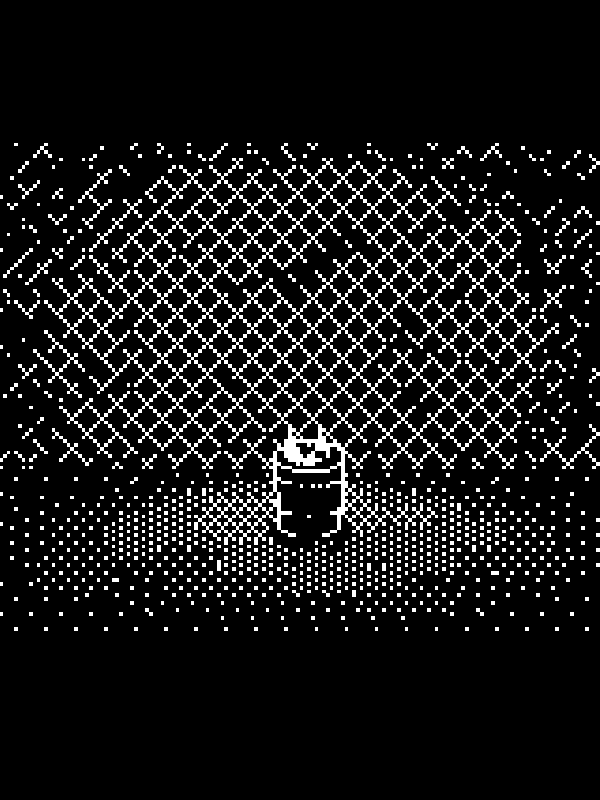
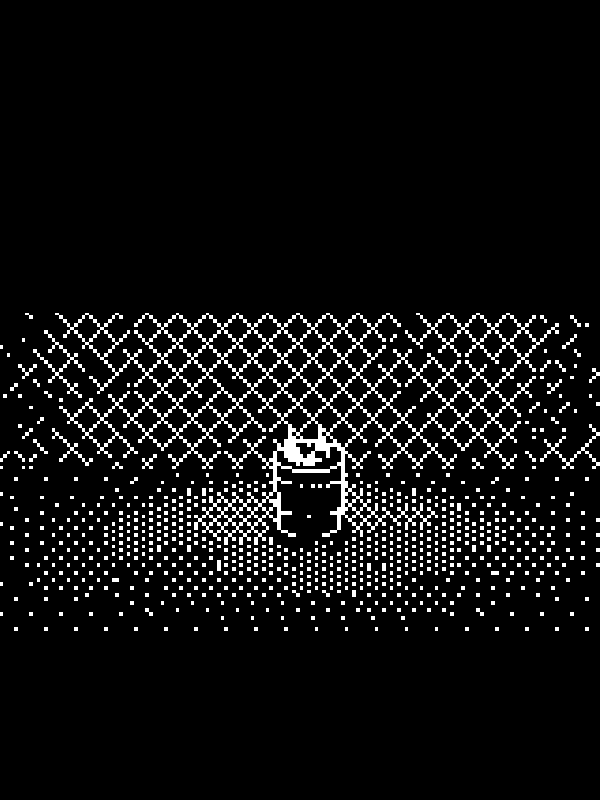
added basic gameplay screen

diff --git a/js/game-play.js b/js/game-play.js
@@ -1,0 +1,70 @@
+BasicGame.GamePlay = function (game) {
+
+	this.vowelButton = null;
+	this.conButton = null;
+	this.doneButton = null;
+	this.countDownText = null;
+	this.randomLetters = "";
+	this.timer = null;
+	this.timerValue = 30;
+	this.timerText = null;
+	this.game = game;
+	this.state = "enterLetters";
+};
+
+BasicGame.GamePlay.prototype = {
+
+	create: function () {
+	    this.bg = this.add.sprite(0, 0, 'background');
+		this.vowelButton = this.add.button(30, 30, 'vowel', this.addVowel, this, 1, 0, 1);
+		this.vowelButton.input.useHandCursor = true;
+		this.vowelButton = this.add.button(130, 30, 'consonant', this.addCon, this, 1, 0, 1);
+		this.vowelButton.input.useHandCursor = true;
+		this.vowelButton = this.add.button(230, 30, 'done', this.startCountdown, this, 1, 0, 1);
+		this.vowelButton.input.useHandCursor = true;
+		countDownText = this.add.text(30, 140, "", { font: "50px Arial", fill: "#ffffff", align: "center" });
+		countDownText.setText(this.randomLetters);
+		this.timer = this.game.time.create(false);
+	    this.timer.loop(1000, this.updateCounter, this);
+		this.state = "enterLetters";
+	},
+
+	update: function () {
+		countDownText.setText(this.randomLetters);
+	},
+
+	addVowel: function() {
+		if (this.state === "enterLetters") {
+			this.randomLetters = this.randomLetters + this.getRandomCharacter("aueio") + " ";
+		}
+	},
+
+	addCon: function() {
+		if (this.state === "enterLetters") {
+			this.randomLetters = this.randomLetters + this.getRandomCharacter("bcdfghjklmnpqrstvwxyz") + " ";
+		}
+	},
+
+	startCountdown: function() {
+		this.state = "countingDown";
+		this.timerText = this.add.text(30, 340, "" + this.timerValue, { font: "80px Arial", fill: "#ff0000", align: "center" });
+	    this.timer.start();
+	},
+
+	updateCounter: function() {
+		this.timerValue = this.timerValue - 1;
+		this.timerText.setText("" + this.timerValue);
+		if (this.timerValue === -1) {
+			this.timer.destroy();
+			this.timerText.setText("");
+		}
+	},
+
+	getRandomCharacter: function(charSet) {
+		charSet = charSet || 'abcdefghijklmnopqrstuvwxyz';
+	    var randomPoz = Math.floor(Math.random() * charSet.length);
+	    randomString = charSet.substring(randomPoz,randomPoz+1);
+	    return randomString;
+	},
+
+};

diff --git a/js/main-menu.js b/js/main-menu.js
@@ -18,10 +18,13 @@ BasicGame.MainMenu.prototype = {
 
 		// Add Main Menu Graphics
 	    		
-	    this.bg = this.add.sprite(0, 0, 'background');
+	    //this.bg = this.add.sprite(0, 0, 'background');
 
 	    // Add "Click here to Play" Button
-		this.playButton = this.add.button(300, 140, 'new-game', this.startGame, this, 1, 0, 1);
+		countDownText = this.add.text(0, 0, "test", { font: "65px Arial", fill: "#ffffff", align: "center" });
+		countDownText.setText("STREET \nCOUNTDOWN");
+
+		this.playButton = this.add.button(100, 300, 'new-game', this.startGame, this, 1, 0, 1);
 		this.playButton.input.useHandCursor = true;
 
 	},
@@ -31,13 +34,12 @@ BasicGame.MainMenu.prototype = {
 	},
 
 	startGame: function (pointer) {
-		countDownText = this.add.text(0, 100, "test", { font: "65px Arial", fill: "#ff0044", align: "center" });
-		countDownText.setText("JOE SUCKS LOL");
+		
 		//	Ok, the Play Button has been clicked or touched, so let's stop the music (otherwise it'll carry on playing)
 		// this.music.stop();
 
 		// And start the actual game
-		//this.state.start('Game');
+		this.state.start('GamePlay');
 
 	}
 

diff --git a/js/boot.js b/js/boot.js
@@ -24,13 +24,16 @@ BasicGame.Boot.prototype = {
         // Here we load the assets required for our preloader (in this case a background and a loading bar)
         this.load.image('background', 'assets/images/background.png');
 		this.load.image('new-game', 'assets/images/new-game.png');
+        this.load.image('vowel', 'assets/images/vowel.png');
+        this.load.image('consonant', 'assets/images/consonant.png');
+        this.load.image('done', 'assets/images/done.png');
     },
 
     create: function () {
 
         // By this point the preloader assets have loaded to the cache, we've set the game settings
         // So now let's start the real preloader going
-        this.state.start('Menu');
+        this.state.start('MainMenu');
 
     }
 

diff --git a/js/app.js b/js/app.js
@@ -4,7 +4,8 @@ window.onload = function() {
   var game = new Phaser.Game(600, 800, Phaser.AUTO, "countdown" );
 
   game.state.add('Boot', BasicGame.Boot);
-  game.state.add('Menu', BasicGame.MainMenu);
+  game.state.add('MainMenu', BasicGame.MainMenu);
+  game.state.add('GamePlay', BasicGame.GamePlay);
   game.state.start('Boot');
 
 

diff --git a/index.html b/index.html
@@ -6,7 +6,8 @@
 	<link type="text/css" rel="stylesheet" href="/css/styles.css">
 	<script src="js/phaser.min.js"></script>
 	<script src="js/boot.js"></script>
-	<script src="js/main.js"></script>
+	<script src="js/main-menu.js"></script>
+	<script src="js/game-play.js"></script>
 </head>
 <body>
 	<div id="container"></div>
